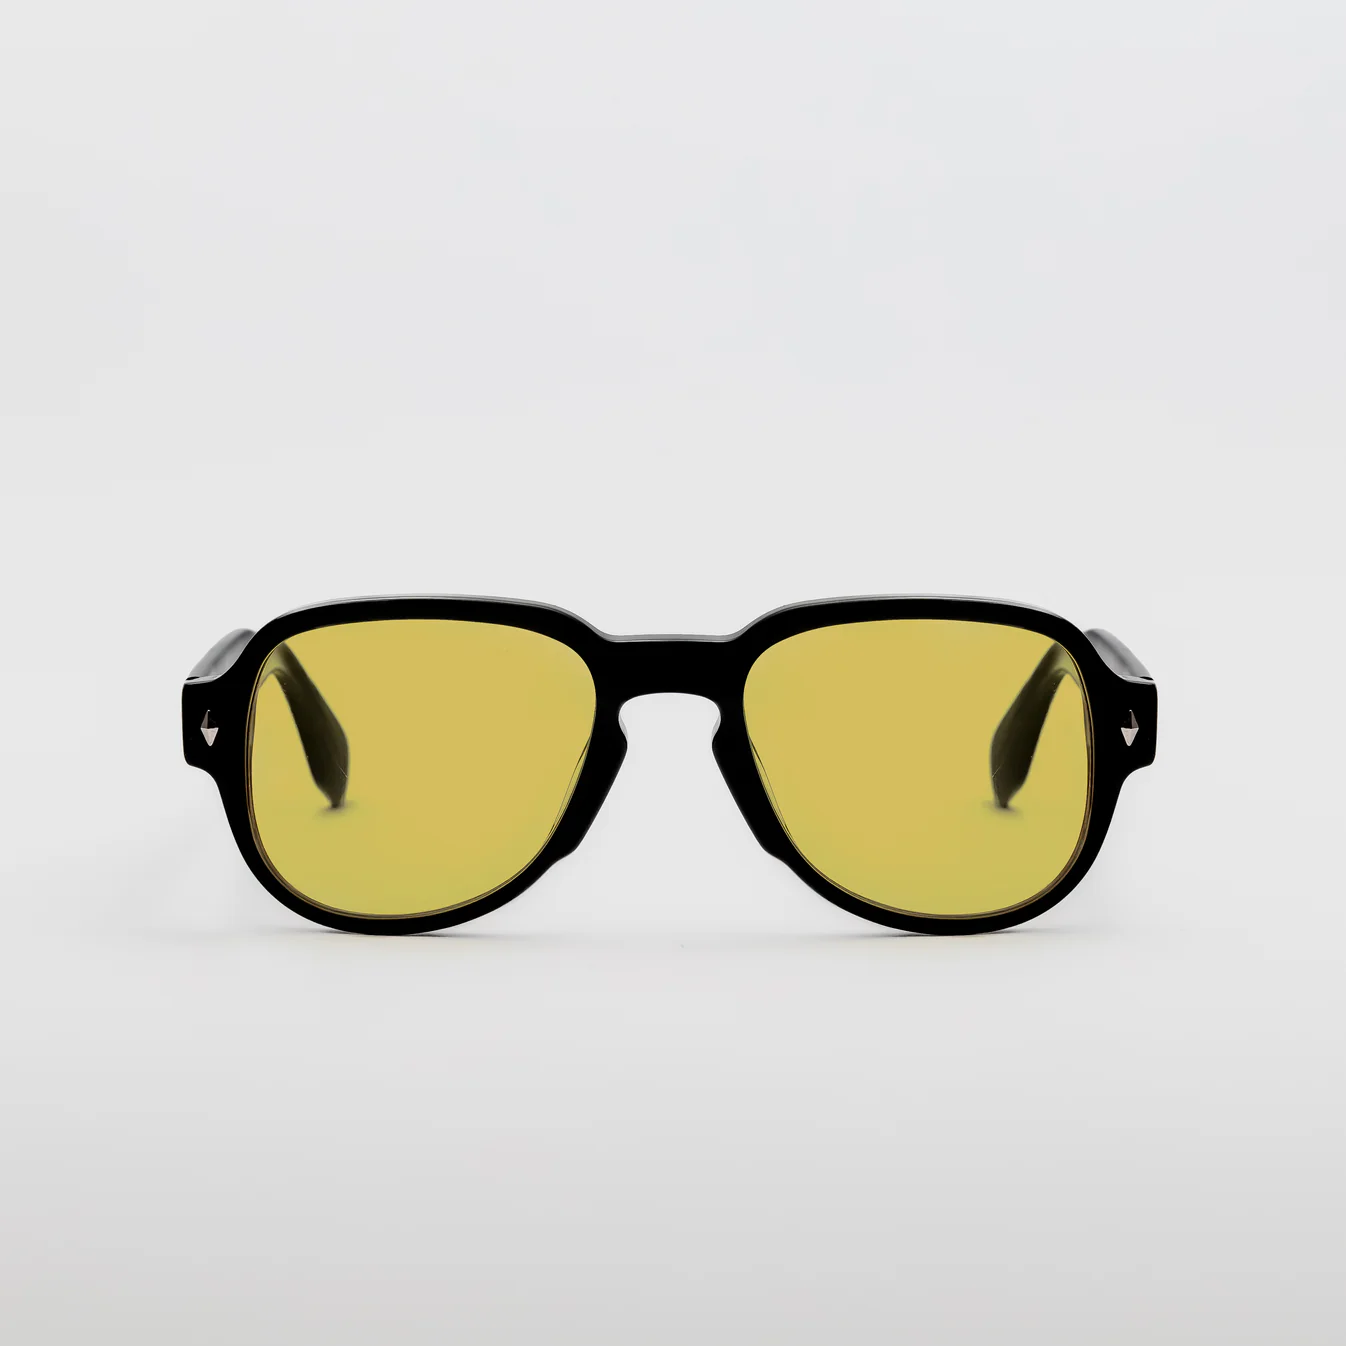
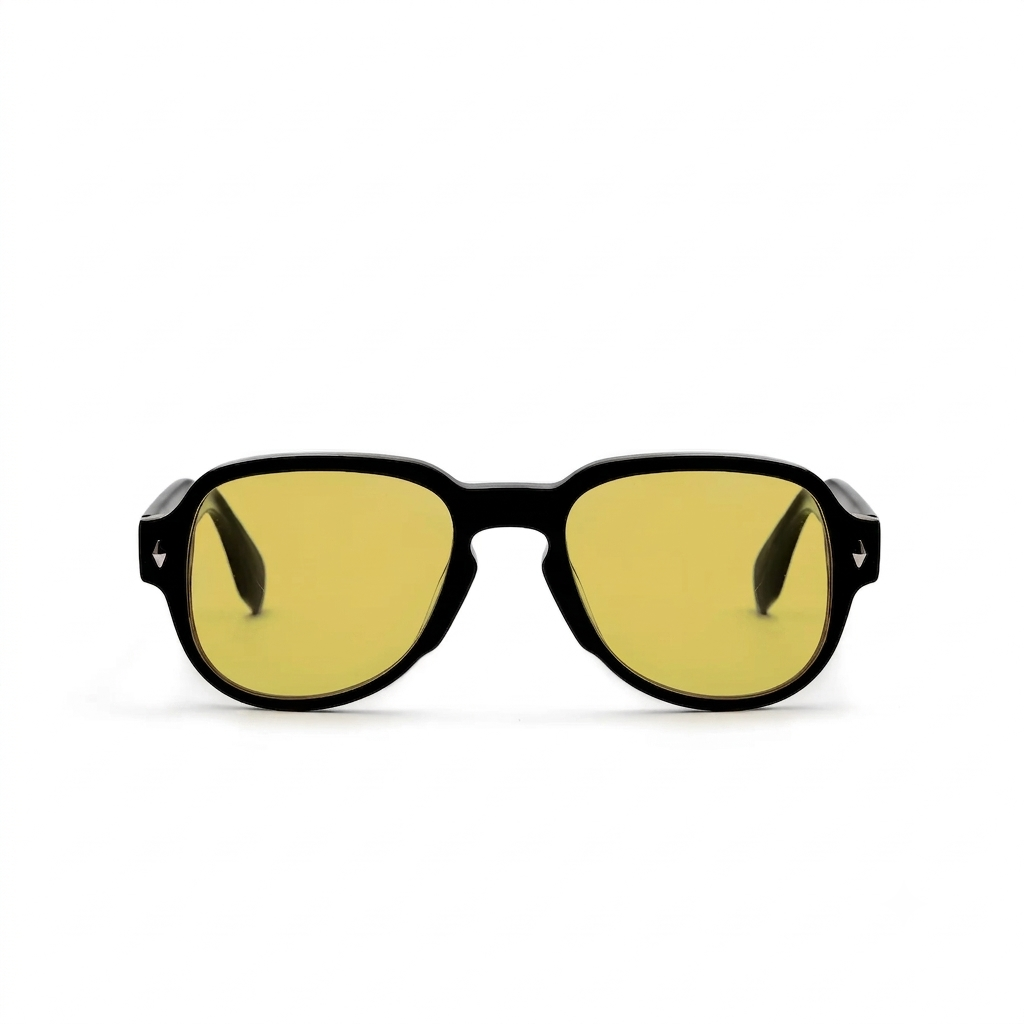
Simplify find-your-fit contact step, add dynamic card background matching
- drop the fake "analysing your scan" overlay: capture/upload now goes
  straight to the contact screen
- contact screen shows all captured photos (not just one) as thumbnails
- fix get-my-fit button width to match the form fields above it
- product cards now sample their photo's own edge colour for the card
  background instead of a hardcoded value, so it adapts per-photo
- update seetrue no. 12 photo set to the new white-background shots

diff --git a/find-your-fit.html b/find-your-fit.html
@@ -332,20 +332,6 @@
     .fyf-spinner { width: 34px; height: 34px; border-radius: 50%; border: 2.5px solid rgba(255,255,255,.2); border-top-color: rgba(255,255,255,.75); animation: fyf-spin .8s linear infinite; }
     @keyframes fyf-spin { to { transform: rotate(360deg); } }
 
-    /* analysing overlay */
-    .fyf-analyse { position: absolute; inset: 0; z-index: 13; display: none; flex-direction: column; align-items: center; justify-content: flex-end; padding: 18px; gap: 14px; background: linear-gradient(to top, rgba(5,7,12,.94) 0%, rgba(5,7,12,.3) 55%, rgba(5,7,12,.1) 100%); }
-    .fyf-analyse.is-on { display: flex; }
-    .fyf-analyse__dots { position: absolute; inset: 0; pointer-events: none; }
-    .fyf-analyse__dots span { position: absolute; width: 5px; height: 5px; border-radius: 50%; background: #fff; box-shadow: 0 0 6px rgba(255,255,255,.9); opacity: 0; animation: fyf-dot 2.4s ease-in-out infinite; }
-    @keyframes fyf-dot { 0%,100% { opacity: 0; transform: scale(.5); } 40%,60% { opacity: 1; transform: scale(1); } }
-    .fyf-analyse__bar-wrap { width: 100%; background: rgba(0,0,0,.4); border: 1px solid rgba(255,255,255,.16); border-radius: 12px; padding: 11px 14px; backdrop-filter: blur(6px); -webkit-backdrop-filter: blur(6px); }
-    .fyf-analyse__row { display: flex; align-items: center; gap: 10px; margin-bottom: 9px; }
-    .fyf-analyse__pct { font-size: var(--fs-base); font-weight: 600; color: #fff; min-width: 40px; }
-    .fyf-analyse__label { font-size: var(--fs-small); color: rgba(255,255,255,.85); letter-spacing: .02em; }
-    .fyf-analyse__track { height: 4px; border-radius: 4px; background: rgba(255,255,255,.18); overflow: hidden; }
-    .fyf-analyse__fill { height: 100%; width: 0; background: #35c281; border-radius: 4px; transition: width .3s linear; }
-    .fyf-analyse__list { width: 100%; display: grid; grid-template-columns: 1fr 1fr; gap: 8px 14px; padding: 2px 4px; }
-    .fyf-alist { display: flex; align-items: center; gap: 8px; font-size: var(--fs-tiny); color: rgba(255,255,255,.45); letter-spacing: .03em; transition: color .3s; }
     .fyf-alist svg { width: 15px; height: 15px; stroke: currentColor; fill: none; stroke-width: 1.8; flex-shrink: 0; }
     .fyf-alist.is-done { color: rgba(255,255,255,.95); }
 
@@ -354,13 +340,16 @@
 
     /* ══════════ SCREEN 5 — contact ══════════ */
     .fyf-form { display:flex; flex-direction:column; gap:8px; margin-bottom:24px; }
+    #fyf-5 .fyf-btn { max-width: none; margin-left: 0; margin-right: 0; }
     .fyf-field { position: relative; }
     .fyf-field input { width: 100%; padding: 24px 16px 10px; border: 1px solid var(--border); border-radius: var(--radius-card); background: rgba(0,3,48,.02); font-family: var(--font); font-size: var(--fs-base); color: var(--blue); outline: none; transition: border-color .22s, background .22s; box-sizing: border-box; }
     .fyf-field input:focus { border-color: var(--blue); background: var(--white); }
     .fyf-field label { position: absolute; left: 16px; top: 50%; transform: translateY(-50%); font-family: var(--font); font-size: var(--fs-base); color: var(--blue); opacity: .42; pointer-events: none; transition: top .2s, font-size .2s, opacity .2s, transform .2s; letter-spacing: .04em; }
     .fyf-field input:focus + label, .fyf-field input:not(:placeholder-shown) + label { top: 11px; transform: none; font-size: 9px; letter-spacing: .06em; opacity: .55; }
-    .fyf-attach { display: flex; align-items: center; gap: 10px; padding: 12px 14px; margin-bottom: 16px; border: 1px solid var(--border); border-radius: var(--radius-card); background: rgba(0,3,48,.02); font-size: var(--fs-tiny); letter-spacing: .04em; color: var(--blue); opacity: .8; }
-    .fyf-attach img { width: 34px; height: 42px; object-fit: cover; border-radius: 6px; flex-shrink: 0; }
+    .fyf-attach { display: flex; align-items: center; gap: 12px; padding: 12px 14px; margin-bottom: 16px; border: 1px solid var(--border); border-radius: var(--radius-card); background: rgba(0,3,48,.02); font-size: var(--fs-tiny); letter-spacing: .04em; color: var(--blue); opacity: .8; }
+    .fyf-attach__shots { display: flex; gap: 6px; flex-shrink: 0; }
+    .fyf-attach__shots img { width: 34px; height: 42px; object-fit: cover; border-radius: 6px; }
+    .fyf-attach svg { flex-shrink: 0; }
     .fyf-attach svg { width: 15px; height: 15px; stroke: #35c281; fill: none; stroke-width: 2; flex-shrink: 0; }
 
     /* ══════════ SCREEN 6 — confirmation ══════════
@@ -633,20 +622,6 @@
                 <span id="fyf-error-text">camera unavailable.<br>please upload a photo instead.</span>
                 <button class="fyf-btn fyf-btn--ghost" id="fyf-error-upload" style="width:auto;height:38px;padding:0 20px;color:#fff;border-color:rgba(255,255,255,.5);background:transparent;">upload a photo</button>
               </div>
-
-              <div class="fyf-analyse" id="fyf-analyse">
-                <div class="fyf-analyse__dots" id="fyf-analyse-dots"></div>
-                <div class="fyf-analyse__bar-wrap">
-                  <div class="fyf-analyse__row"><span class="fyf-analyse__pct" id="fyf-analyse-pct">0%</span><span class="fyf-analyse__label">analysing facial features…</span></div>
-                  <div class="fyf-analyse__track"><div class="fyf-analyse__fill" id="fyf-analyse-fill"></div></div>
-                </div>
-                <div class="fyf-analyse__list">
-                  <div class="fyf-alist" data-a="0"><svg viewBox="0 0 24 24"><circle cx="12" cy="12" r="9"/><polyline points="8.5 12 11 14.5 15.5 9.5"/></svg> face shape</div>
-                  <div class="fyf-alist" data-a="1"><svg viewBox="0 0 24 24"><circle cx="12" cy="12" r="9"/><polyline points="8.5 12 11 14.5 15.5 9.5"/></svg> bridge width</div>
-                  <div class="fyf-alist" data-a="2"><svg viewBox="0 0 24 24"><circle cx="12" cy="12" r="9"/><polyline points="8.5 12 11 14.5 15.5 9.5"/></svg> temple length</div>
-                  <div class="fyf-alist" data-a="3"><svg viewBox="0 0 24 24"><circle cx="12" cy="12" r="9"/><polyline points="8.5 12 11 14.5 15.5 9.5"/></svg> frame fit</div>
-                </div>
-              </div>
             </div>
           </div>
           <p class="fyf-cam-hint" id="fyf-cam-hint">having trouble? <a id="fyf-cam-upload-link">upload a photo instead</a></p>
@@ -658,9 +633,9 @@
           <h2 class="fyf-heading">we'll take it from here.</h2>
           <p class="fyf-sub">our face-shape expert will review your scan and send a personal recommendation.</p>
           <div class="fyf-attach" id="fyf-attach" style="display:none;">
-            <img id="fyf-attach-img" alt="your scan" />
+            <div class="fyf-attach__shots" id="fyf-attach-shots"></div>
             <svg viewBox="0 0 24 24"><polyline points="20 6 9 17 4 12"/></svg>
-            <span>your face scan is attached.</span>
+            <span>your photos are attached.</span>
           </div>
           <div class="fyf-form fyf-stagger" id="fyf-form">
             <div class="fyf-field"><input type="text" id="fyf-name" placeholder=" " autocomplete="given-name" /><label for="fyf-name">first name</label></div>
@@ -945,7 +920,6 @@
     function startScan() {
       portalIn();
       captured = false; resetShots(); updateStepUI();
-      document.getElementById('fyf-analyse').classList.remove('is-on');
       document.querySelector('#fyf-4 .fyf-heading').textContent = 'take your photos';
       document.querySelector('#fyf-4 .fyf-sub').textContent = 'capture straight, left, and right angles.';
       video.style.display = ''; var old = viewport.querySelector('.fyf-cam-shot'); if (old) old.remove();
@@ -965,49 +939,26 @@
       answers.photo = shots[0].dataUrl;
       answers.photos = shots.map(function (s) { return s.dataUrl; });
       stopStreamOnly();
-      var shot = document.createElement('img'); shot.className='fyf-cam-shot'; shot.src=answers.photo;
-      video.style.display='none'; viewport.insertBefore(shot, viewport.firstChild);
-      runAnalyse();
+      goTo(5, false);
+      showAttachment();
     }
 
     function startUploadFlow() {
       portalIn(); stopStreamOnly();
       captured = true; showState('idle');
-      var old = viewport.querySelector('.fyf-cam-shot'); if (old) old.remove();
-      video.style.display='none';
-      var shot = document.createElement('img'); shot.className='fyf-cam-shot fyf-cam-shot--upload'; shot.src=answers.photo;
-      viewport.insertBefore(shot, viewport.firstChild);
-      runAnalyse();
-    }
-
-    function runAnalyse() {
-      document.querySelector('#fyf-4 .fyf-heading').textContent = 'analysing your scan';
-      document.querySelector('#fyf-4 .fyf-sub').textContent = 'mapping your face shape and proportions.';
-      ovalEl.style.opacity='0'; topEl.style.opacity='0'; thumbsEl.style.opacity='0';
-      shutterEl.style.display='none'; submitEl.style.display='none'; closeEl.style.display='none';
-      var an = document.getElementById('fyf-analyse');
-      var fill = document.getElementById('fyf-analyse-fill'), pctEl = document.getElementById('fyf-analyse-pct');
-      var lists = document.querySelectorAll('.fyf-alist');
-      lists.forEach(function (l) { l.classList.remove('is-done'); });
-      var dots = document.getElementById('fyf-analyse-dots'); dots.innerHTML='';
-      [[38,26],[62,26],[30,40],[70,40],[50,34],[50,52],[36,60],[64,60],[50,70],[44,46],[56,46]].forEach(function (p,i) {
-        var s=document.createElement('span'); s.style.left=p[0]+'%'; s.style.top=p[1]+'%'; s.style.animationDelay=(i*0.12)+'s'; dots.appendChild(s);
-      });
-      an.classList.add('is-on');
-      var pct = 0;
-      var iv = setInterval(function () {
-        pct += Math.random()*7 + 3; if (pct>100) pct=100;
-        fill.style.width = pct+'%'; pctEl.textContent = Math.floor(pct)+'%';
-        var done = Math.floor(pct/25);
-        for (var k=0;k<done && k<lists.length;k++) lists[k].classList.add('is-done');
-        if (pct >= 100) { clearInterval(iv); lists.forEach(function(l){l.classList.add('is-done');});
-          setTimeout(function () { an.classList.remove('is-on'); goTo(5, false); showAttachment(); }, 650); }
-      }, 220);
+      answers.photos = [answers.photo];
+      goTo(5, false);
+      showAttachment();
     }
 
     function showAttachment() {
-      if (!answers.photo) return;
-      document.getElementById('fyf-attach-img').src = answers.photo;
+      var photos = answers.photos && answers.photos.length ? answers.photos : (answers.photo ? [answers.photo] : []);
+      if (!photos.length) return;
+      var shotsEl = document.getElementById('fyf-attach-shots');
+      shotsEl.innerHTML = '';
+      photos.forEach(function (src) {
+        var img = document.createElement('img'); img.src = src; img.alt = 'your photo'; shotsEl.appendChild(img);
+      });
       document.getElementById('fyf-attach').style.display = 'flex';
     }
 

diff --git a/js/main.js b/js/main.js
@@ -176,12 +176,47 @@
     }
   });
 
+  /* ---------- product card background matches its own photo's edge colour ----------
+     product shots don't all share one fixed background (older ones sat on grey,
+     the newer set is shot on white) — instead of hardcoding a colour, sample a
+     few pixels around the photo's edge and use that as the card background, so
+     it always blends with whatever the photo actually is. */
+  function sampleEdgeColor(img) {
+    try {
+      var c = document.createElement('canvas');
+      c.width = 24; c.height = 24;
+      var ctx = c.getContext('2d');
+      ctx.drawImage(img, 0, 0, 24, 24);
+      var pts = [[0,0],[23,0],[0,23],[23,23],[11,0],[0,11]];
+      var r = 0, g = 0, b = 0;
+      pts.forEach(function (p) {
+        var d = ctx.getImageData(p[0], p[1], 1, 1).data;
+        r += d[0]; g += d[1]; b += d[2];
+      });
+      var n = pts.length;
+      return 'rgb(' + Math.round(r/n) + ',' + Math.round(g/n) + ',' + Math.round(b/n) + ')';
+    } catch (e) { return null; } // cross-origin image — keep the CSS fallback colour
+  }
+  function matchCardBg(frame, img) {
+    function apply() {
+      var color = sampleEdgeColor(img);
+      if (color) frame.style.backgroundColor = color;
+    }
+    if (img.complete && img.naturalWidth) apply();
+    else img.addEventListener('load', apply, { once: true });
+  }
+  document.querySelectorAll('.product-card__frame').forEach(function (frame) {
+    var img = frame.querySelector('.product-card__img-wrap img');
+    if (img) matchCardBg(frame, img);
+  });
+
   /* ---------- product card image arrows (slide transition) ---------- */
   document.querySelectorAll('.product-card').forEach(function (card) {
     var images;
     try { images = JSON.parse(card.dataset.images); } catch (err) { return; }
     if (!images || images.length < 2) return;
 
+    var frame = card.querySelector('.product-card__frame');
     var wrap = card.querySelector('.product-card__img-wrap');
     var img = wrap.querySelector('img');
     var index = 0;
@@ -215,6 +250,7 @@
         img.style.transform = 'none';
         wrap.removeChild(incoming);
         animating = false;
+        matchCardBg(frame, img);
       }, 500);
     }
 
